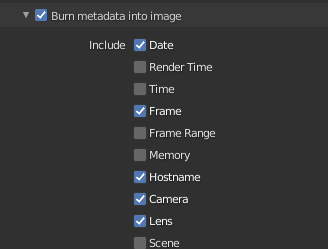
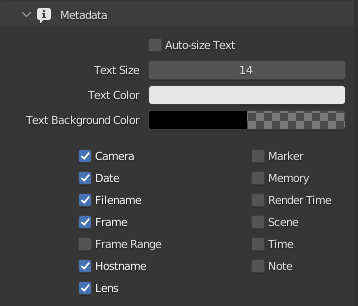
updated doc v3.0.0

diff --git a/src-docs/docs/settings.md b/src-docs/docs/settings.md
@@ -6,37 +6,47 @@
 
 The output settings for *DuBlast* are located in the *Output Settings* Tab of the *Properties* panel.
 
-## Annotations
+## Operator
 
-To render the annotations, DuBlast automatically converts the annotations to a *Grease Pencil* object, and removes it after the rendering process.
+![Operator Screenshot](img/operator.png)
 
-## Camera
+- ![](img/icons/increment.png){style="width:24px"} Add the current date and time in the file name, instead of overwriting the same file for each playblast.
+- ![](img/icons/metadata.png){style="width:24px"} Burn the metadata in the video.
+- ![](img/icons/annotations.png){style="width:24px"} Include annotations.  
+  To render the annotations, DuBlast automatically converts the annotations to a *Grease Pencil* object, and removes it after the rendering process.
 
-Use the *Use scene camera* option to force the rendering process to use the camera instead of the current view.
+## Scene
 
-## Resolution
+![Scene Screenshot](img/scene.png)
 
-The resolution is a percentage of the output dimensions.
+- *Scene Camera*: always use the camera currently set to the scene.
+- *Scene Frame Range*: use the frame range of the scene or a custom range.
+
+## Shading
+
+![Scene Screenshot](img/shading.png)
+
+Adjust the shading of the viewport for the playblast.
+
+
+## Output
+
+![Scene Screenshot](img/output.png)
+
+A few formats are available (*PNG*, *JPEG*, *AVI JPEG* and *MP4*); all of them are presets carefully crafted to be animator friendly (easy to seek and play). The default is *MP4*, which will make smaller files for the same quality and can be played easily with any player on any system. These *MP4* files have custom settings to enable frame by frame seeking. They're also very fast to encode when creating the playblast.
+
+You can set a custom output path for the playblast, different from the scene/render output.
 
 !!! note
     When rendering to *MP4* (the default), *DuBlast* will automatically adjust the dimension of the playblast to fit *MP4* requirements (an even number of columns and lines). This will not affect the scene output settings.
 
-## Frame range
-
-Uncheck the *Use scene frame range* option to set a custom frame range for the playblast, different from the scene.
-
-## Output
-
-You can set a custom output path for the playblast, different from the scene/render output.
-
-A few formats are available (*PNG*, *JPEG*, *AVI JPEG* and *MP4*); all of them are presets carefully crafted to be animator friendly (easy to seek and play). The default is *MP4*, which will make smaller files for the same quality and can be played easily with any player on any system. These *MP4* files have custom settings to enable frame by frame seeking. They're also very fast to encode when creating the playblast.
-
 ## Metadata
+
+![Scene Screenshot](img/metadata_settings.png)
 
 You can burn some metadata into the image.
 
+If the *Auto-size Text* option is checked, the font size set in the scene settings will be scaled according to the *Resolution* setting of the playblast, so that the metadata text is the same size both in the 100% output of the scene and the scaled down playblast
+
 !!! note
     These metadata options are not the same as of the scene ; the scene options are kept separated so you can easily have different metadata between the scene and your playblasts.
-
-!!! hint
-    The font size set in the scene settings will be scaled according to the *Resolution* setting of the playblast, so that the metadata text is the same size both in the 100% output of the scene and the scaled down playblast

diff --git a/src-docs/docs/index.md b/src-docs/docs/index.md
@@ -4,7 +4,7 @@
 
 *DuBlast* is an add-on for *Blender* which makes it easy to create and play animation playblasts, without having to change any render or output setting.
 
-[You can download it here](https://rainboxlab.org/tools/dublast/).
+[You can download it here](https://rxlaboratory.org/tools/dublast-for-blender/).
 
 ## Usage
 

diff --git a/src-docs/docs/changelog.md b/src-docs/docs/changelog.md
@@ -2,6 +2,12 @@
 
 This is the list of what has changed since the first public version of *DuBlast*.
 
+## 3.0.0
+
+- Added Shading controls
+- Added icons to Panels and improved UI
+- Code refactor: separated into panels, playblast, & properties files
+
 ## 2.1.2
 
 - Fixed compatibility with *Blender 3.1*
